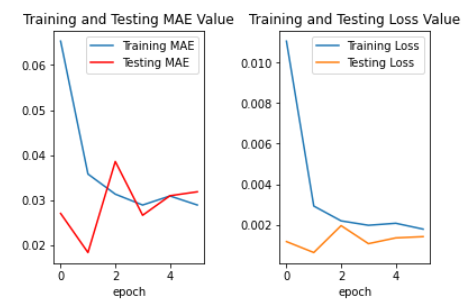
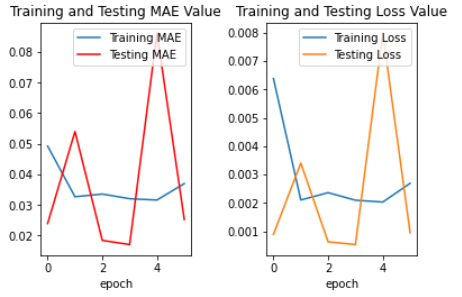
perbaikan model evaluation dan prediction

Changed region(s): [[0.0, 0.0, 1.0, 1.0]]

diff --git a/README.md b/README.md
@@ -54,7 +54,7 @@ Dalam tahap ini, saya menyiapkan dataframe yang telah menyimpan data dari CSV te
 
 Berikut hasil cek data null oleh library **pandas** : <br>
 
-![Check null values](https://github.com/ilhamadhim/TLKM-Stock-Analysis/blob/master/assets/ada-null-values.png?raw=true)
+![Check null values](https://github.com/ilhamadhim/TLKM-Stock-Analysis/blob/master/assets/ada-missing-values.png?raw=true)
 
 Dari 3980 data, terdapat 3944 data yang tidak ada null valuesnya, ini artinya ada beberapa data yang null. Untuk mengatasinya, kita bisa menghapus row yang null dengan **dropna()** dari library **pandas**
 
@@ -70,11 +70,13 @@ Kemudian, kita cek juga untuk duplikasi data. Berikut hasil cek duplikasi data o
 ![Check duplicate values](https://github.com/ilhamadhim/TLKM-Stock-Analysis/blob/master/assets/check-duplicate-values.png?raw=true)
 
 Selain pengecekan data, kita juga perlu untuk mengatur skala data. Hal ini perlu dilakukan agar skor MAE kita tidak menjadi terlalu besar, jika hal ini terjadi, akan mengakibatkan prediksi kita sangat buruk. Oleh karena itu, saya melakukan skala data menggunakan MinMax Scaler. Berikut formula dari MinMax Scaler: <br>
-
 ![MinMax Scaler Formula](https://i.stack.imgur.com/ruy6L.png)
 
-Sebagai rangkuman, langkah yang telah saya lakukan untuk tahap ini adalah: 
+Kemudian untuk langkah terakhir, perlu dilakukan train test splitting. 
 
+![Check duplicate values](https://github.com/ilhamadhim/TLKM-Stock-Analysis/blob/master/assets/result-train-test-split.png?raw=true)
+
+Sebagai rangkuman, langkah yang telah saya lakukan untuk tahap ini adalah: 
 1. Penghapusan missing values 
 2. Penghapusan duplikat data
 3. Penskalaan Data dengan MinMax Scaler
@@ -115,7 +117,7 @@ Fungsi loss yang paling sederhana dan sering digunakan untuk kasus regresi
 
 <br>
 
-Model deep learning yang telah dibuat dapat melakukan proses training data dengan metrik dan loss function tersebut. Dalam prosesnya, terlihat hasil MAE yang relatif kecil yaitu sekitar 0.0290. Hal ini menunjukan bahwa model ini memiliki error dibawah 1.8%
+Model deep learning yang telah dibuat dapat melakukan proses training data dengan metrik dan loss function tersebut. Dalam prosesnya, terlihat hasil MAE yang relatif kecil yaitu sekitar 0.0370. Hal ini menunjukan bahwa model ini memiliki error dibawah 1.8%
 
 ## Penutup
 Demikian laporan dan metrik dari implementasi Machine Learning untuk analisis harga saham TLKM oleh PT. Telkom Indonesia Tbk. Terimakasih telah membaca laporan ini, semoga bermanfaat.
